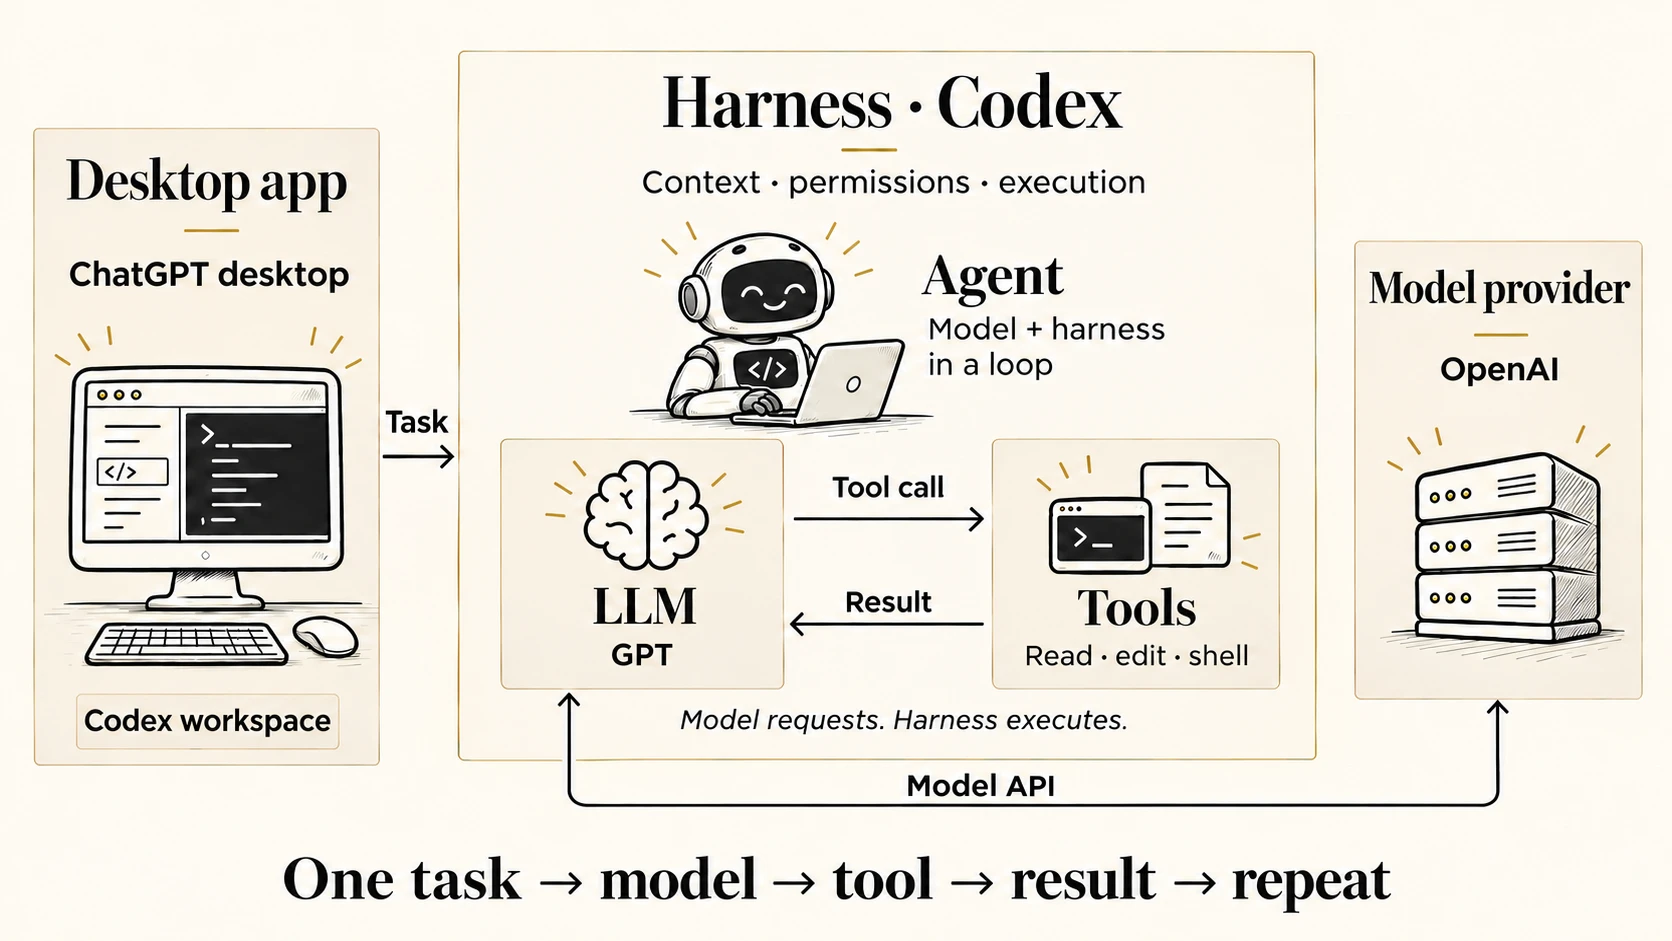
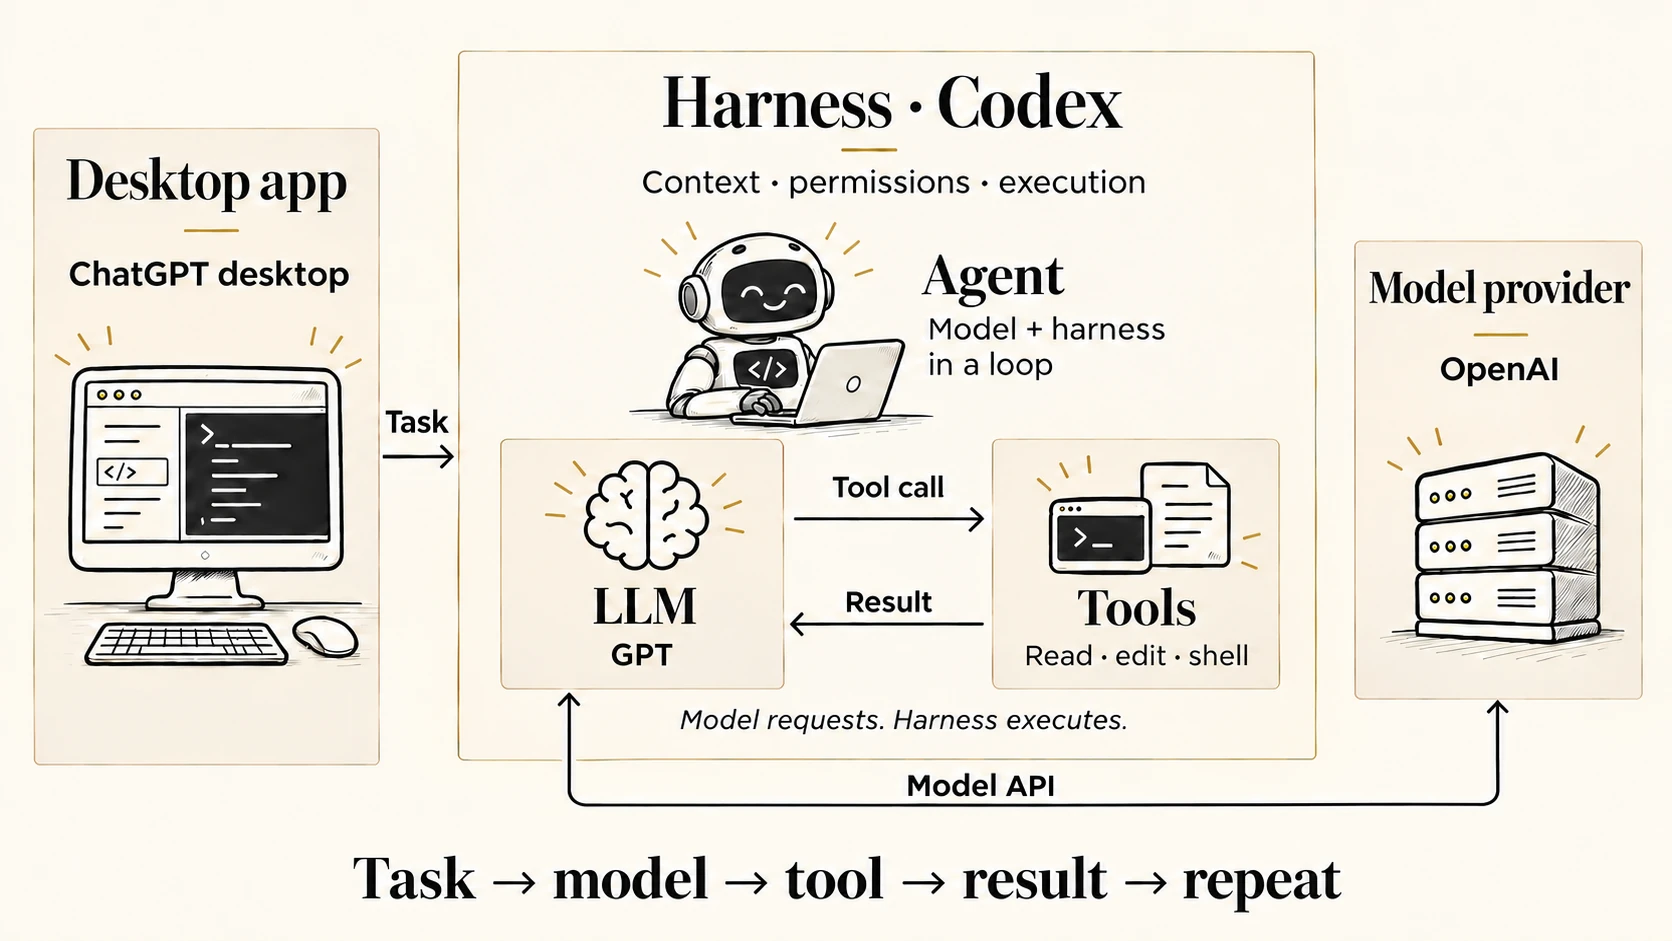
fix(slides): simplify agentic stack diagrams

diff --git a/media/README.md b/media/README.md
@@ -198,18 +198,22 @@ labels. Convert each output with `cwebp -q 90`.
 ```text
 Use case: infographic-diagram. Asset type: new landscape 16:9 teaching illustration for a Quarto slide, about 1800x1000. Reference image is style only, not an edit target.
 Create a precise explanatory architecture diagram of Anthropic's coding stack. Refined editorial style matching reference: flat ivory #fdfaf3 canvas, stone #e9e5db square panels, near-black #141414 pen-and-ink linework and text, gold #dac284 thin borders only. Bodoni/Didot serif headings and clear Montserrat-like labels. No bright colours, gradients, rounded cards, shadows, watermark, or overall slide title. Sparse large text readable when projected at 880px. Friendly small robot, thin directional arrows.
-COMPOSITION: left 22% is an illustrated desktop monitor with label "Desktop app" then "Claude Desktop" then small "Code tab". A right-pointing arrow labelled "Task" leads to a large central outlined container occupying middle 55%, labelled at top "Harness · Claude Code", with subtitle "Context · permissions · execution".
+COMPOSITION: left 22% is an illustrated desktop monitor with label "Desktop app" and application name "Claude Desktop". A right-pointing arrow labelled "Task" leads to a large central outlined container occupying middle 55%, labelled at top "Harness · Claude Code", with subtitle "Context · permissions · execution".
 Inside harness a small robot at upper centre with heading "Agent" and subtitle "Model + harness in a loop". Below are two equal stone boxes: LEFT has brain icon heading "LLM" and label "Claude"; RIGHT has terminal and file icons heading "Tools" and label "Read · edit · shell". Connect LLM to Tools with top rightward arrow labelled "Tool call"; connect Tools back to LLM with bottom leftward arrow labelled "Result". Keep arrows and labels non-overlapping. Small caption below pair: "Model requests. Harness executes." These two directional arrows depict tool-calling.
 Rightmost 18% outside harness is a small server building illustration labelled "Model provider" and "Anthropic", linked by a thin two-way line to LLM box routed below harness, with label "Model API". Do NOT imply tools execute inside the model provider. The agent is the working system encompassing model and harness, not a separate model or provider. Desktop is an interface to Claude Code, not the LLM.
-Place the exact caption "One task → model → tool → result → repeat" centred below the diagram, unboxed and without horizontal rules. Use large, readable type and generous ivory whitespace.
+Place the exact caption "Task → model → tool → result → repeat" centred below the diagram, unboxed and without horizontal rules. Use large, readable type and generous ivory whitespace.
 No vendor logos necessary; use original editorial icons. All text verbatim and spelt correctly. Generous whitespace.
 ```
 
 | Variant | Vendor-specific labels |
 | --- | --- |
-| Anthropic | Claude Desktop / Code tab; Harness · Claude Code; LLM · Claude; Model provider · Anthropic; Model API |
-| OpenAI | ChatGPT desktop / Codex workspace; Harness · Codex; LLM · GPT; Model provider · OpenAI; Model API |
-| GitHub Copilot | VS Code / Copilot interface; Harness · Copilot; LLM · Claude; Model developer · Anthropic, Access via GitHub Copilot; Model access via Copilot |
+| Anthropic | Claude Desktop; Harness · Claude Code; LLM · Claude; Model provider · Anthropic; Model API |
+| OpenAI | ChatGPT desktop; Harness · Codex; LLM · GPT; Model provider · OpenAI; Model API |
+| GitHub Copilot | GitHub Copilot App; Harness · Copilot; LLM · Claude; Model developer · Anthropic, Access via GitHub Copilot; Model access via Copilot |
+
+The desktop-app panel names the application only. Do not add secondary
+interface labels such as a tab, workspace, or interface name. Each diagram
+uses the same bottom caption: “Task → model → tool → result → repeat”.
 
 The Copilot example deliberately uses Claude: selecting an Anthropic model
 does not switch the Copilot harness to Claude Code. Sources are the official
@@ -217,8 +221,11 @@ does not switch the Copilot harness to Claude Code. Sources are the official
 [Claude Desktop](https://code.claude.com/docs/en/desktop),
 [Codex harness](https://developers.openai.com/blog/codex-as-a-platform),
 [ChatGPT desktop](https://learn.chatgpt.com/docs/app), and
-[Copilot harness](https://code.visualstudio.com/docs/agents/concepts/agent-harnesses)
+[GitHub Copilot App](https://docs.github.com/en/copilot/concepts/copilot-surfaces/github-copilot-app)
 documentation.
+
+Final built-in image edit: label the desktop application “GitHub Copilot App”.
+Preserve the shared composition, light palette, and all other diagram labels.
 
 ## Shared style prompt
 
